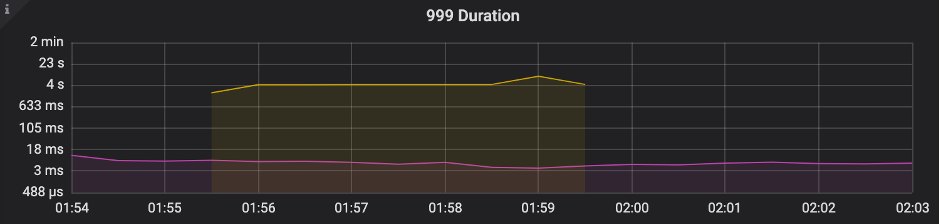
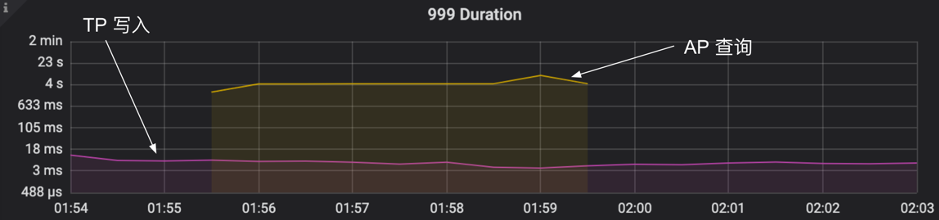
fix some typos

diff --git a/tiflash-column-database.md b/tiflash-column-database.md
@@ -29,7 +29,7 @@ TiFlash 是为实时场景设计，因此我们必须支持实时更新。在这
 
 **「TiFlash 是列存，大家都说列存的实时写入很慢，TiFlash 呢？」**
 
-经过业界验证的实时更新列存方案是 Delta Main 设计。简单说，就是将需要更新数据与整理好的不可变列存块分开存放，读时归并，定期 Compact，而 TiFlash 也采取了类似设计思路。TiFlash 并非是拍脑袋发明了一种可更新列存结构，而是参考了其他成熟系统设计，如 Apache Kudu，CWI 的 Positional Delta Tree 等的设计思路，TiFlash 的设计也兼具了 B+ 树和 LSM 的优势，在读写两端都有优异的性能（但牺牲了对 TiFlash 场景无用的点查性能）。由于无需考虑点查，因此 TiFlash 可以以进行惰性数据整理加速写入；由于引入了读时排序索引回写，因此哪怕 Compact 不那么频繁仍可以保持扫描高效，进一步减小写放大加速写入。
+经过业界验证的实时更新列存方案是 Delta Main 设计。简单说，就是将需要更新数据与整理好的不可变列存块分开存放，读时归并，定期 Compact，而 TiFlash 也采取了类似设计思路。TiFlash 并非是拍脑袋发明了一种可更新列存结构，而是参考了其他成熟系统设计，如 [Apache Kudu](https://kudu.apache.org/kudu.pdf)，CWI 的 [Positional Delta Tree](http://www.odbms.org/wp-content/uploads/2014/07/PositionalDelat-Trees.pdf) 等的设计思路，TiFlash 的设计也兼具了 B+ 树和 LSM 的优势，在读写两端都有优异的性能（但牺牲了对 TiFlash 场景无用的点查性能）。由于无需考虑点查，因此 TiFlash 可以以进行惰性数据整理加速写入；由于引入了读时排序索引回写，因此哪怕 Compact 不那么频繁仍可以保持扫描高效，进一步减小写放大加速写入。
 
 ![](media/tiflash-column-database/1-tiflash-design.png)
 
@@ -56,7 +56,7 @@ TiFlash 是为实时场景设计，因此我们必须支持实时更新。在这
 
 测试结果是：
 
-1. sysbench 运行 QPS 非常平稳，不会因为 AP 查询而抖动。从上图可以看到，黄色线段代表 AP 查询，开启和关闭并不会对查询产生抖动，哪怕 999 分位。
+1. sysbench 运行 QPS 非常平稳，不会因为 AP 查询而抖动。从上图可以看到，黄色线段代表 AP 查询（开启和关闭），开启和关闭并不会对查询产生抖动，哪怕 999 分位。
 
 2. TiFlash 可以很好匹配 TiKV 的实时写入（包含增删改而非仅仅插入）同时提供查询。
 
